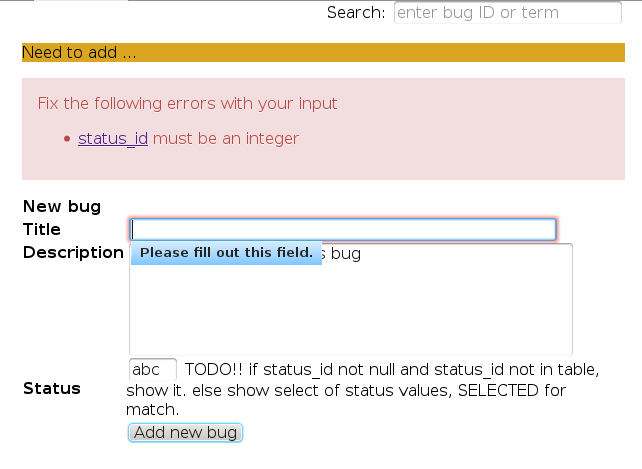
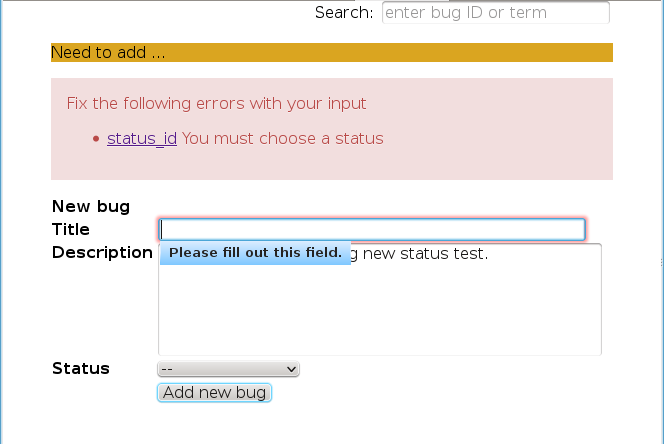
implement status_id <select>

diff --git a/includes/Bug.php b/includes/Bug.php
@@ -1,6 +1,7 @@
 <?php
 require_once('db_login.php');
 require_once('Error.php');
+require_once('includes/status_list.php');
 
 class Bug {
     /* database fields */
@@ -9,6 +10,8 @@ class Bug {
     var $description;
     var $status_id;
     var $status_last_modified;
+
+    private static $statusListArr = null;
 
     /**
      * constructor
@@ -58,11 +61,12 @@ class Bug {
                 'errStr' => 'must be an integer'
             ) );
         }
-        if ( ! is_numeric( $this->status_id ) ) {
+        // Must validate current status.
+        if ( ( $this->status_id === null ) or ! is_numeric( $this->status_id ) ) {
             $isValid = false;
             $error->validationErr( array (
                 'field' => 'status_id',
-                'errStr' => 'must be an integer'
+                'errStr' => 'You must choose a status'
             ) );
         } elseif ( false and $this->status_id  /* TODO validate status_id */) {
             $isValid = false;
@@ -193,20 +197,24 @@ class Bug {
         if (isDebugMode()) {
             echo "in Bug " . __FUNCTION__;
         }
-        // Retrieve even not active records
-        $sql = 'SELECT *
-                FROM status_code';
-        if ($retrieveOnlyActive) {
-                $sql .= ' WHERE active = 1';
+        if (self::$statusListArr === null) {
+            // Retrieve even not active records
+            $sql = 'SELECT *
+                    FROM status_code';
+            if ($retrieveOnlyActive) {
+                    $sql .= ' WHERE active = 1';
+            }
+            $sql .=  ' ORDER BY ordering';
+            $result = $dbh->query($sql);
+            $statuses = $result->fetchAll(PDO::FETCH_ASSOC);
+            if (isDebugMode()) {
+                echo "in " . __FUNCTION__ . "After query & fetch row is:";
+                print_r($statuses);
+            }
+            // Cache the value.
+            self::$statusListArr = $statuses;
         }
-        $sql .=  ' ORDER BY ordering';
-        $result = $dbh->query($sql);
-        $statuses = $result->fetchAll(PDO::FETCH_COLUMN|PDO::FETCH_GROUP);
-        if (isDebugMode()) {
-            echo "in " . __FUNCTION__ . "After query & fetch row is:";
-            print_r($statuses);
-        }
-        return ($statuses);
+        return self::$statusListArr;
     }
 
 }

diff --git a/includes/status_list.php b/includes/status_list.php
@@ -1,5 +1,6 @@
 <?php
 require_once('Bug.php');
+require_once('util.php');
 
 /**
  * creates an HTML select of status codes 
@@ -7,19 +8,36 @@ require_once('Bug.php');
  *            and if not present, the description of the status code.
  */
 function makeSelect( $status_id=null ) {
+    $outStr = '';
+    $found = false;
     $statuses = Bug::retrieveStatusList();
-    print_r ($statuses);
-    ## foreach ($status in $statuses) 
+    $outStr .= '<select name="status_id">';
+    $outStr .= '<option value="">--</option>';
+    foreach ($statuses as $status) {
+        if ($status['active']) {
+            $outStr .= '<option value="' . $status['status_id'] . '"';
+            // $status_id from the form is a string, but do a loose comparison here.
+            if ($status_id == $status['status_id']) {
+                $outStr .= ' selected="selected"';
+                $found = true;
+            }
+            $outStr .= '>' . $status['status_name'] . "</option>\n";
+        }
+    }
+    $outStr .= '</select>';
+    if ($status_id !== null and $status_id !== '' and ! $found ) {
+        $outStr .= '<div class="error"> current status ' . $status_id . ' not found</div>';
+    }
+    return $outStr;
 }
 
 // Cheap, bad? equivalent of Python's
 // if __name__ == '__main__':
 //    _test()
-
 if (!isset($_SERVER)
     or
     (array_key_exists('SCRIPT_FILENAME', $_SERVER)
      and basename($_SERVER['SCRIPT_FILENAME']) === basename( __FILE__ ))) {
     print "testing this code\n";
-    makeSelect();
+    print makeSelect( 666 );
 }

diff --git a/index.php b/index.php
@@ -214,15 +214,7 @@ if ($pageAction === 'list') {
     <tr>
       <th>Status</th>
       <td>
-        <input type="text" name="status_id"
-               size="2" maxlength="3"
-               required
-               value="<?=$bug->status_id ?>"
-               id="status_id"
-        >
-        TODO!!
-        if status_id not null and status_id not in table, show it.
-        else show select of status values, SELECTED for match.
+        <?= makeSelect($bug->status_id) ?>
       </td>
     </tr>
     <? if ($bug->status_last_modified) { ?>
